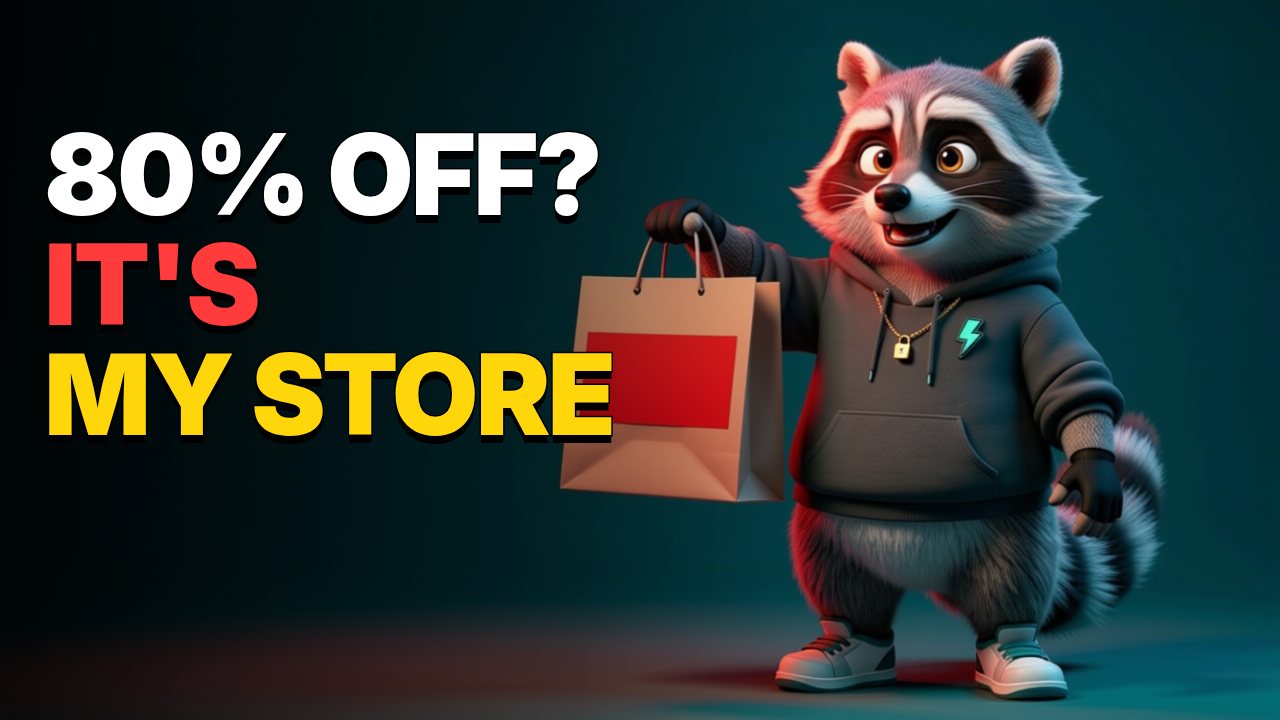
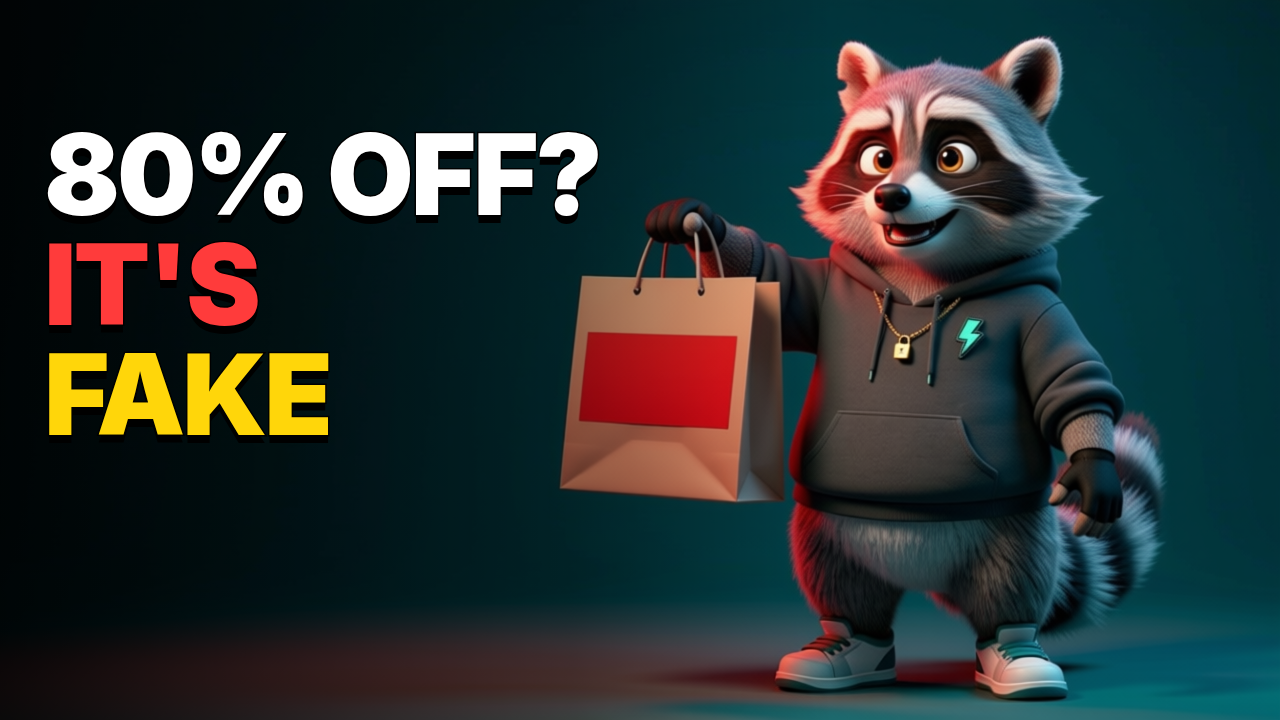
ep07: updated thumbnail and upload metadata
Claude-Session: https://claude.ai/code/session_01GZeXGPc4SGh94Mv1cmpEkf

Changed region(s): [[0.0312, 0.4889, 0.5, 0.6417]]

diff --git a/youtube/lenny/episodes/ep07/upload.md b/youtube/lenny/episodes/ep07/upload.md
@@ -1,9 +1,9 @@
-# I Built Fake Online Stores. Spot One In 10 Seconds.
+# Don't Buy From This 80% Off Store
 
 ## Title options
+- Don't Buy From This 80% Off Store
 - I Built Fake Online Stores. Spot One In 10 Seconds.
 - 80% Off? It's Probably My Store (Ex-Scammer)
-- How To Spot A Fake Online Store Before Black Friday
 
 ## Description
 ```
@@ -11,19 +11,21 @@ You found a jacket for 80% off in an ad. Lenny, an ex-scammer raccoon, used to b
 
 ⏱ CHAPTERS
 0:00 Intro
-0:55 STEP 1 The Shop
-1:53 STEP 2 The Ad
-2:50 STEP 3 You Pay
-3:33 STEP 4 What Arrives
-6:21 BONUS After You Shop
-6:53 Already Paid?
-8:03 Recap
+0:54 STEP 1 The Shop
+1:52 STEP 2 The Ad
+2:47 STEP 3 You Pay
+3:27 STEP 4 What Arrives
+6:14 BONUS After You Shop
+6:44 Already Paid?
+7:53 Recap
 
 📊 Source: FTC Consumer Sentinel data — online shopping is consistently one of the most reported fraud categories.
 
 🛡 If you've lost money to a scam (US): call your bank first, then report at reportfraud.ftc.gov and ic3.gov. People over 60 can call the National Elder Fraud Hotline: 1-833-FRAUD-11 (1-833-372-8311). UK: forward scam texts to 7726 and report to Action Fraud.
 
 🦝 Lenny is a fictional character — a reformed con artist who takes scams apart so they stop working on you. Messages, names, numbers and websites shown are made up for education. This video is not financial or legal advice.
+
+🎵 Music: "Dark Fog" Kevin MacLeod (incompetech.com). Licensed under Creative Commons: By Attribution 4.0 License http://creativecommons.org/licenses/by/4.0/
 
 #scams #scamawareness #fraudprevention
 ```
@@ -37,4 +39,4 @@ fake online store, online shopping scam, black friday scams, how to spot a fake 
 `thumbnail.png` (1280×720)
 
 ## Length
-8:28
+8:18
